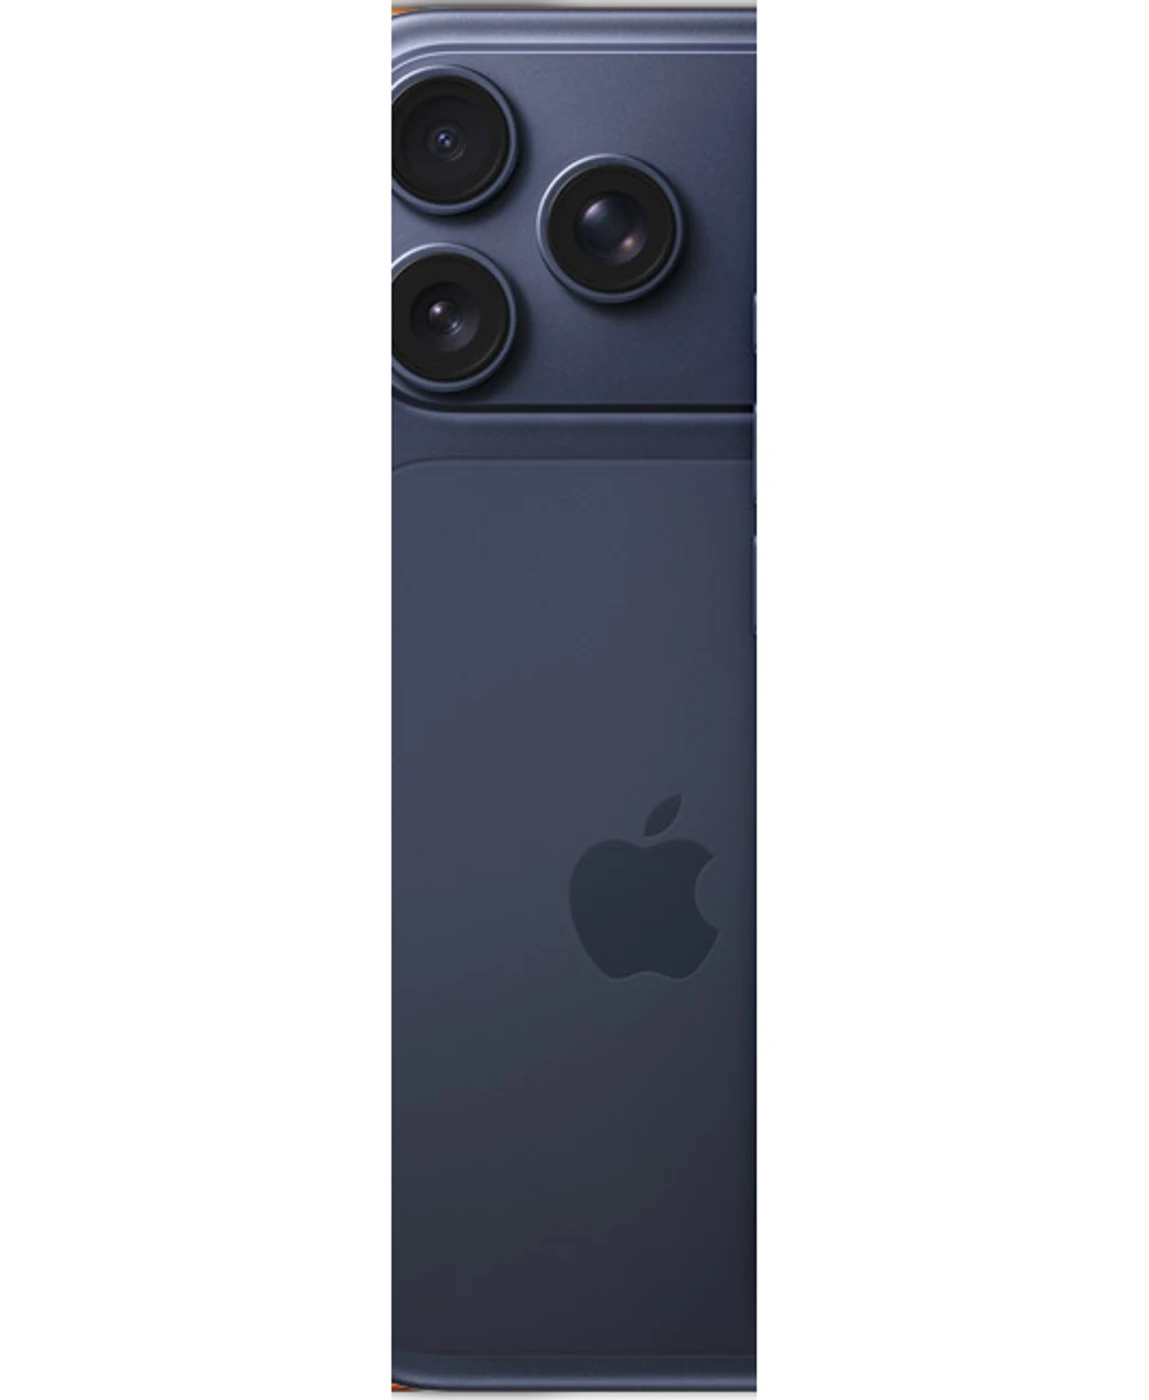
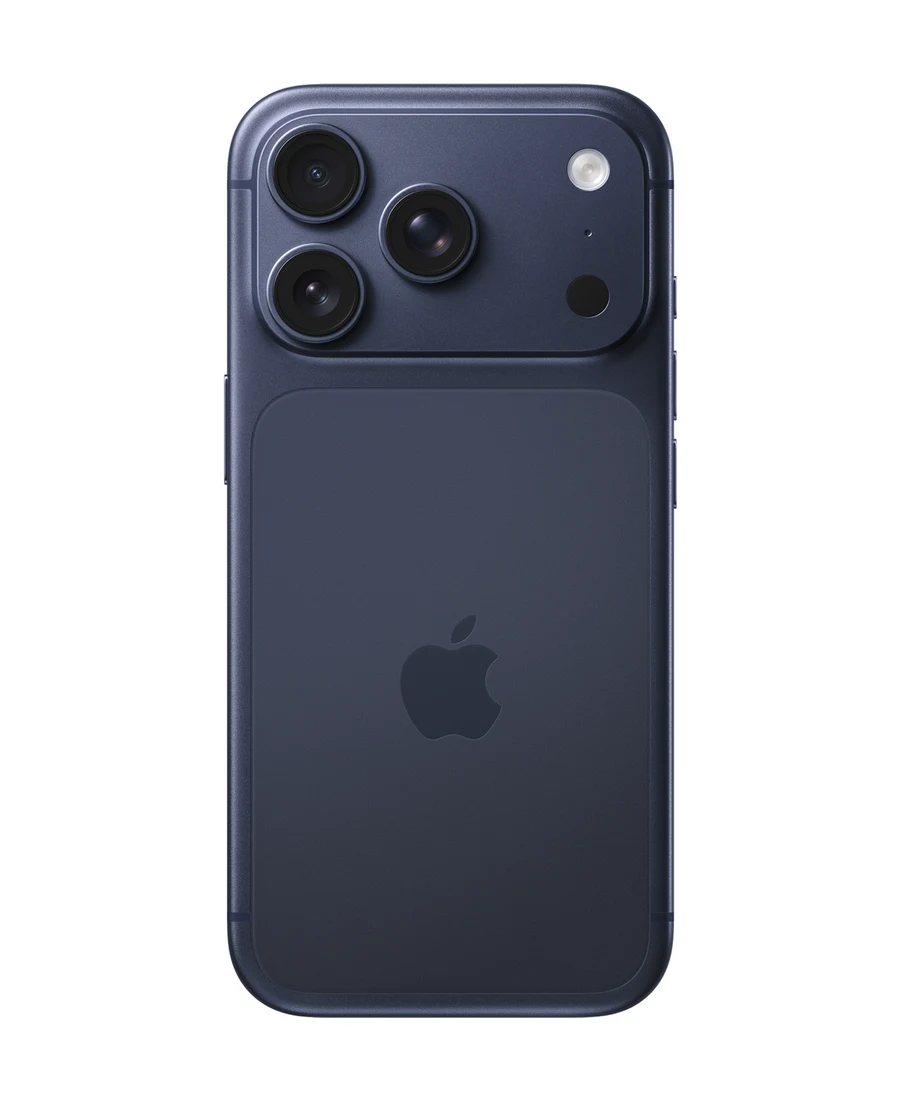
fix: full-device iPhone 17 Pro photos + MacBook Air/Pro photo matching
- iPhone 17 Pro color photos were cropped tight from a collage (top/sides
  cut off); replaced with full-device Apple Store renders on white bg.
- MacBook Air/Pro name format now inserts the chip name between "Air"/
  "Pro" and the screen size ("Air M5 13.6"" instead of "Air 13"), which
  broke the old /air 13/ /pro 14/ etc. regexes and left MacBooks with the
  letter-placeholder instead of a photo. Made them tolerant of the chip
  name in between.

Changed region(s): [[0.2489, 0.0, 0.7778, 1.0]]

diff --git a/frontend/src/curated-photos.ts b/frontend/src/curated-photos.ts
@@ -18,10 +18,10 @@ export const CURATED_PHOTOS: Array<{ test: RegExp; image: string }> = [
   { test: /ipad air (7|8)?\s*m\d 11|ipad air 11/i, image: "/images/products/apple/ipad-air-11.webp" },  // iPad Air 11"
   { test: /^ipad 11/i, image: "/images/products/apple/ipad-11.webp" },  // iPad
   { test: /neo/i, image: "/images/products/apple/macbook-neo.webp" },  // MacBook Neo
-  { test: /air 13/i, image: "/images/products/apple/macbook-air-13.webp" },  // MacBook Air 13"
-  { test: /air 15/i, image: "/images/products/apple/macbook-air-15.webp" },  // MacBook Air 15"
-  { test: /pro 14/i, image: "/images/products/apple/macbook-pro-14.webp" },  // MacBook Pro 14"
-  { test: /pro 16/i, image: "/images/products/apple/macbook-pro-16.webp" },  // MacBook Pro 16"
+  { test: /\bair\b[^0-9]{0,14}13/i, image: "/images/products/apple/macbook-air-13.webp" },  // MacBook Air 13" (учитывает M4/M5 между "Air" и размером)
+  { test: /\bair\b[^0-9]{0,14}15/i, image: "/images/products/apple/macbook-air-15.webp" },  // MacBook Air 15"
+  { test: /\bpro\b[^0-9]{0,14}14/i, image: "/images/products/apple/macbook-pro-14.webp" },  // MacBook Pro 14"
+  { test: /\bpro\b[^0-9]{0,14}16/i, image: "/images/products/apple/macbook-pro-16.webp" },  // MacBook Pro 16"
   { test: /series 11/i, image: "/images/products/apple/watch-series-11.webp" },  // Apple Watch Series 11
   { test: /ultra 3/i, image: "/images/products/apple/watch-ultra-3.webp" },  // Apple Watch Ultra 3
   { test: /se 3/i, image: "/images/products/apple/watch-se-3.webp" },  // Apple Watch SE 3
